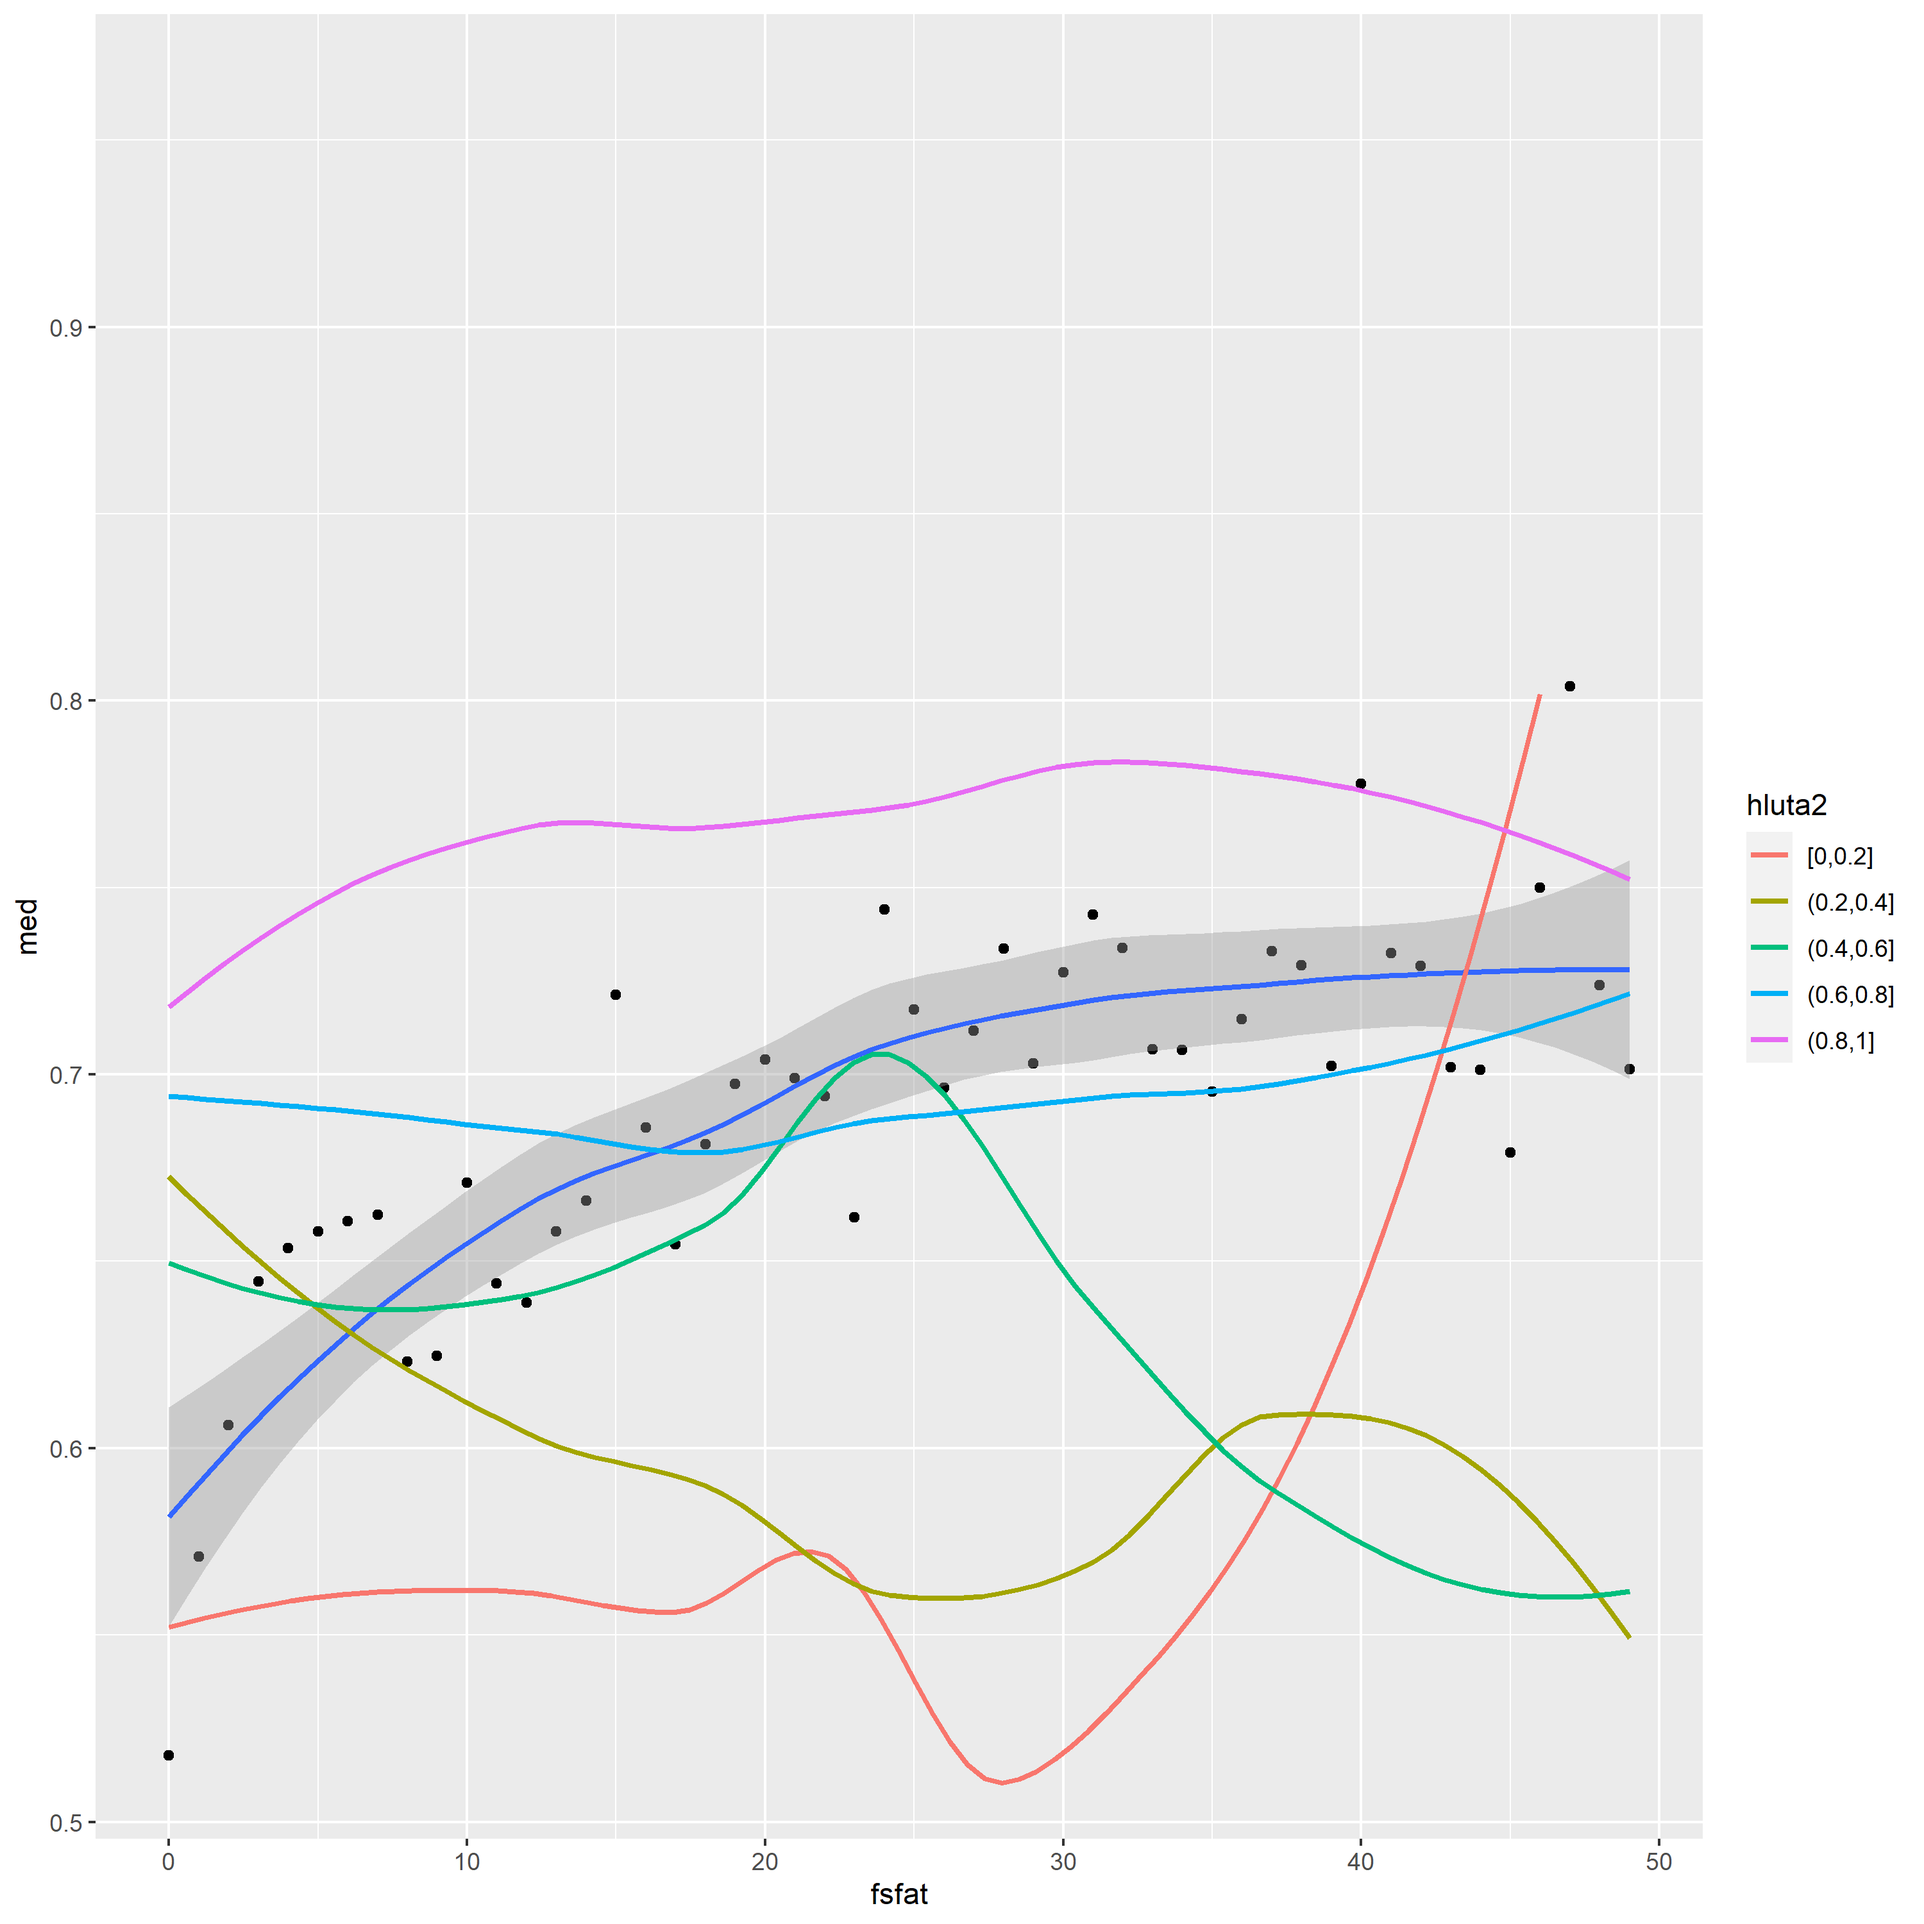
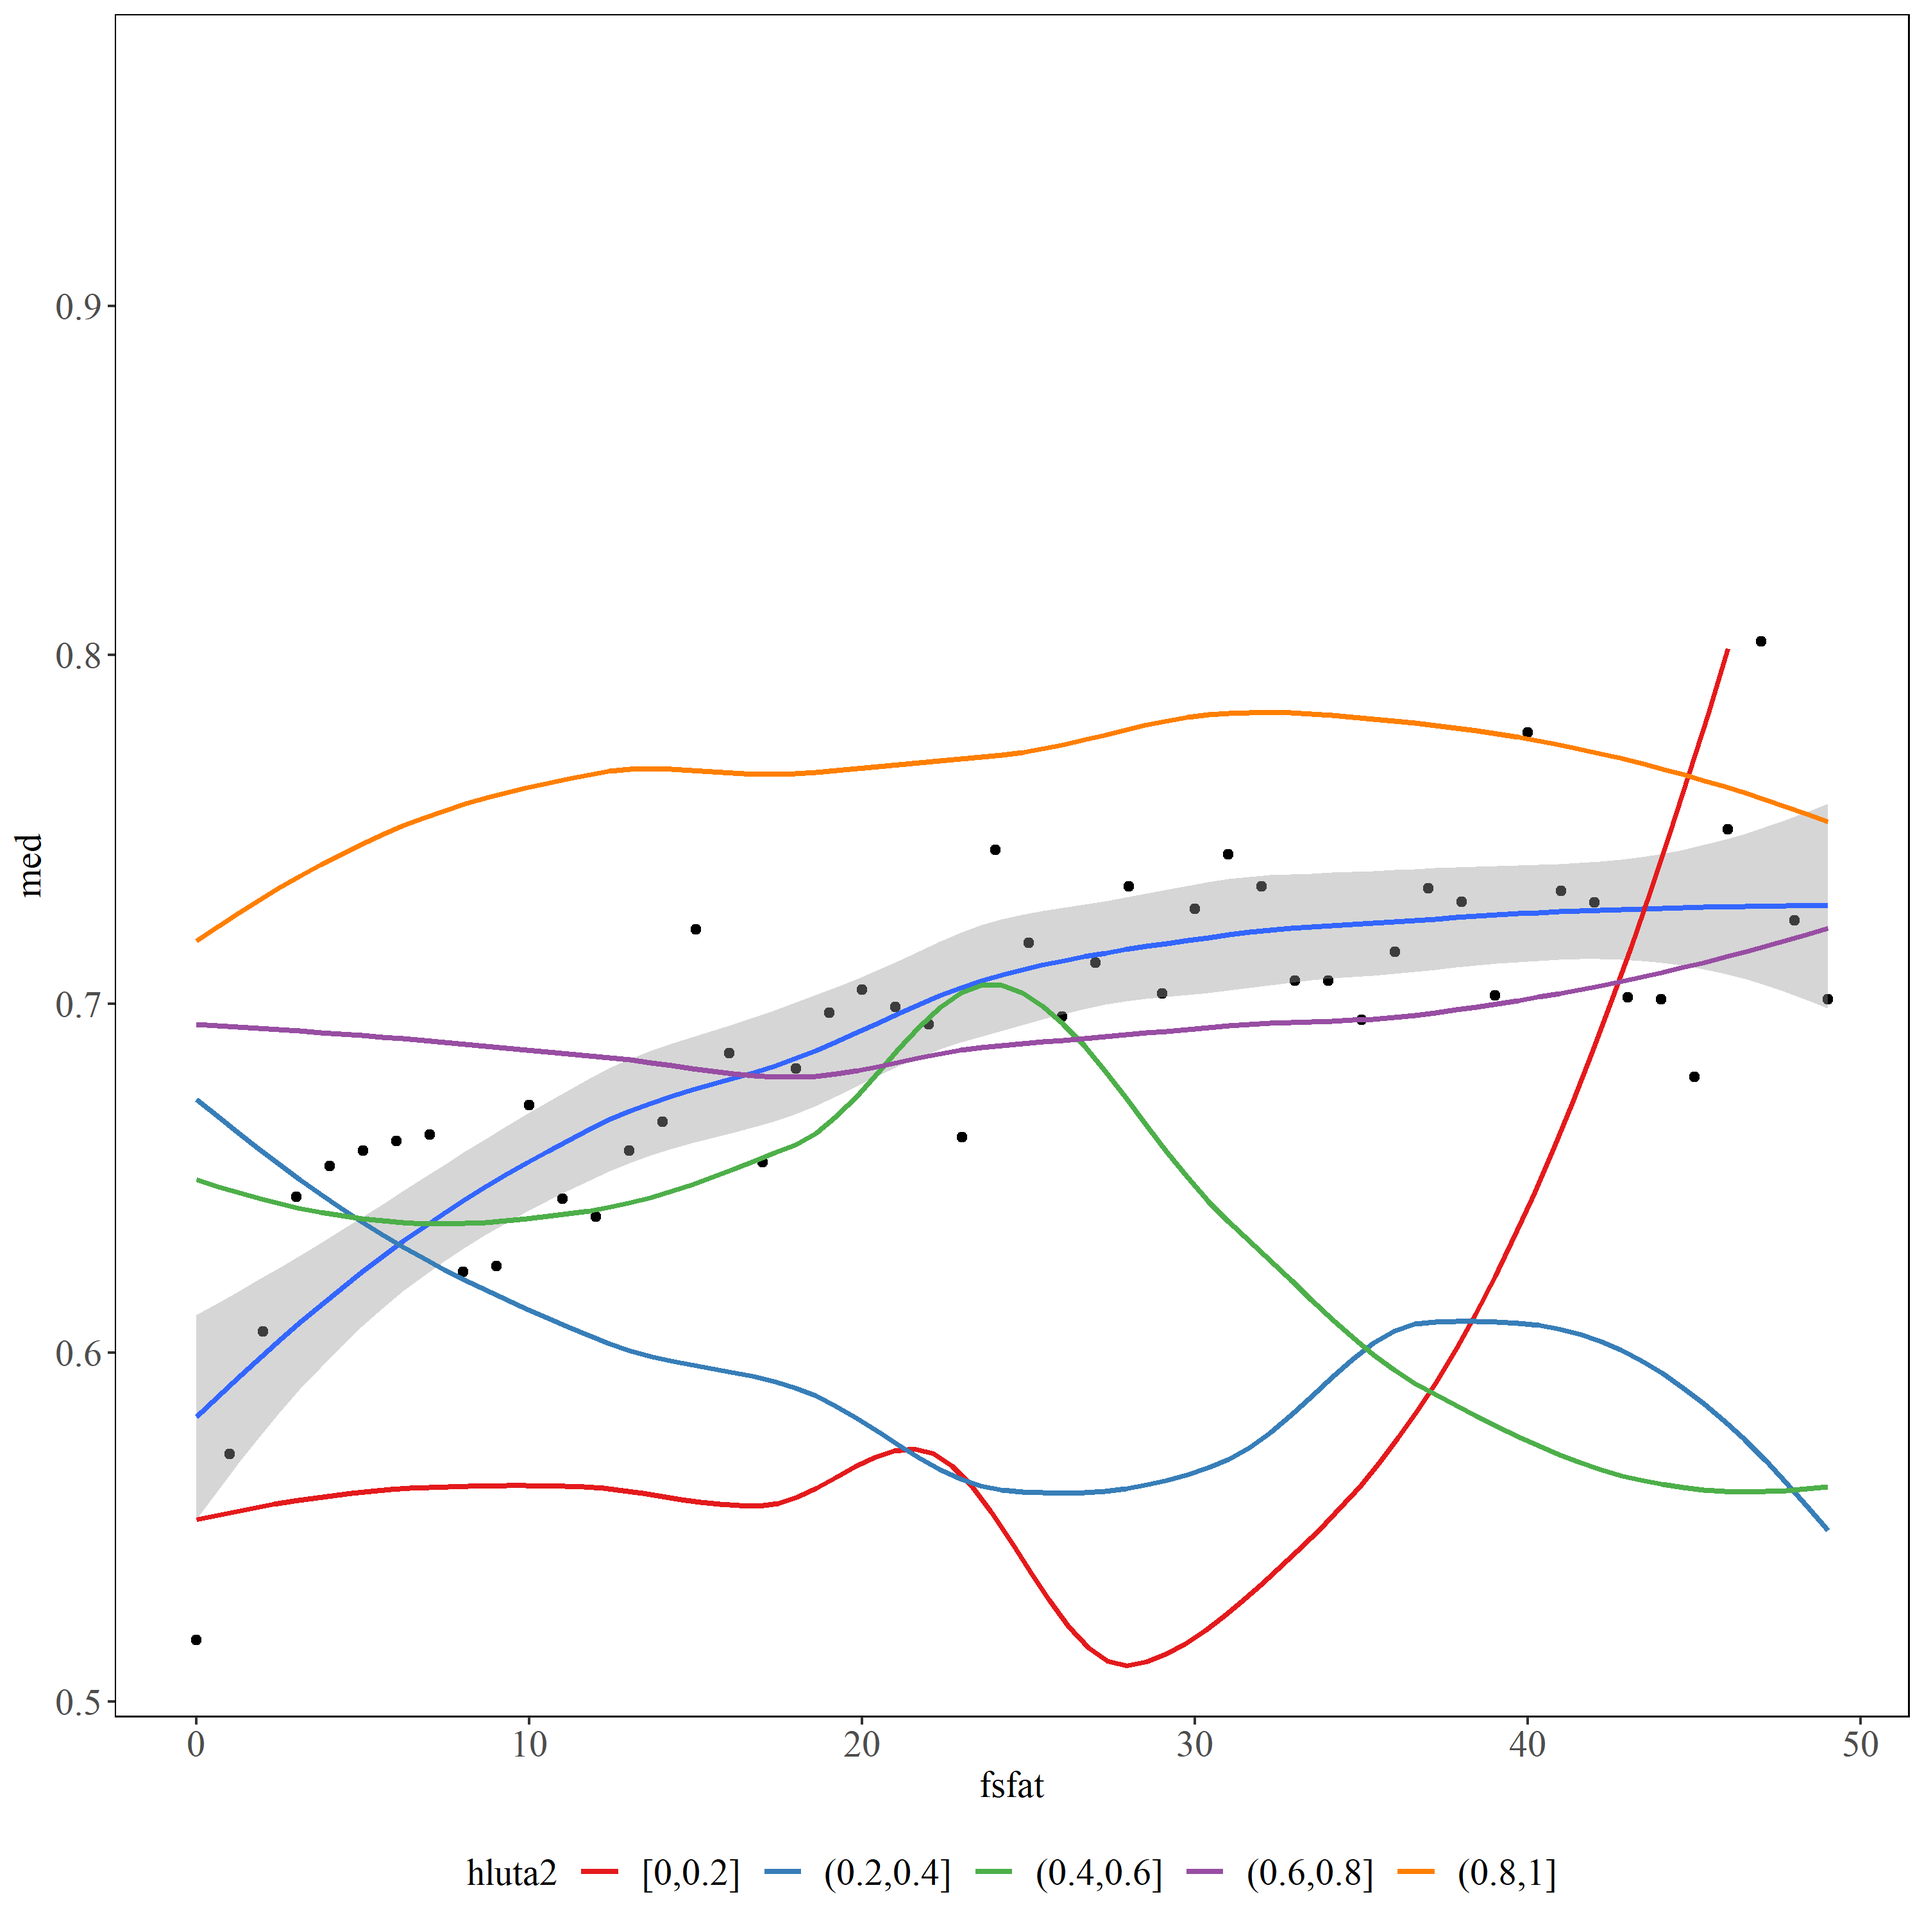
allt fyrir lokaskýrsluna bætti við formúlur fyrir líköninn
Bætti við calibration plot og histogram með tilliti til predictions fyrir öll líköninn

Uppfærði allar myndirnar til að vera skýranlegri og vonandi flottari

bætti við Anova fyrir líköninn þrjú

Former-commit-id: 0eb7440db2b9f49bf65103e115d8d9526ea48c2e

diff --git a/template/header.tex b/template/header.tex
@@ -24,3 +24,6 @@
 \usepackage{algpseudocode}
 \usepackage{caption}
 \usepackage[sectionbib]{chapterbib}
+\lstset{
+  breaklines=true
+}
